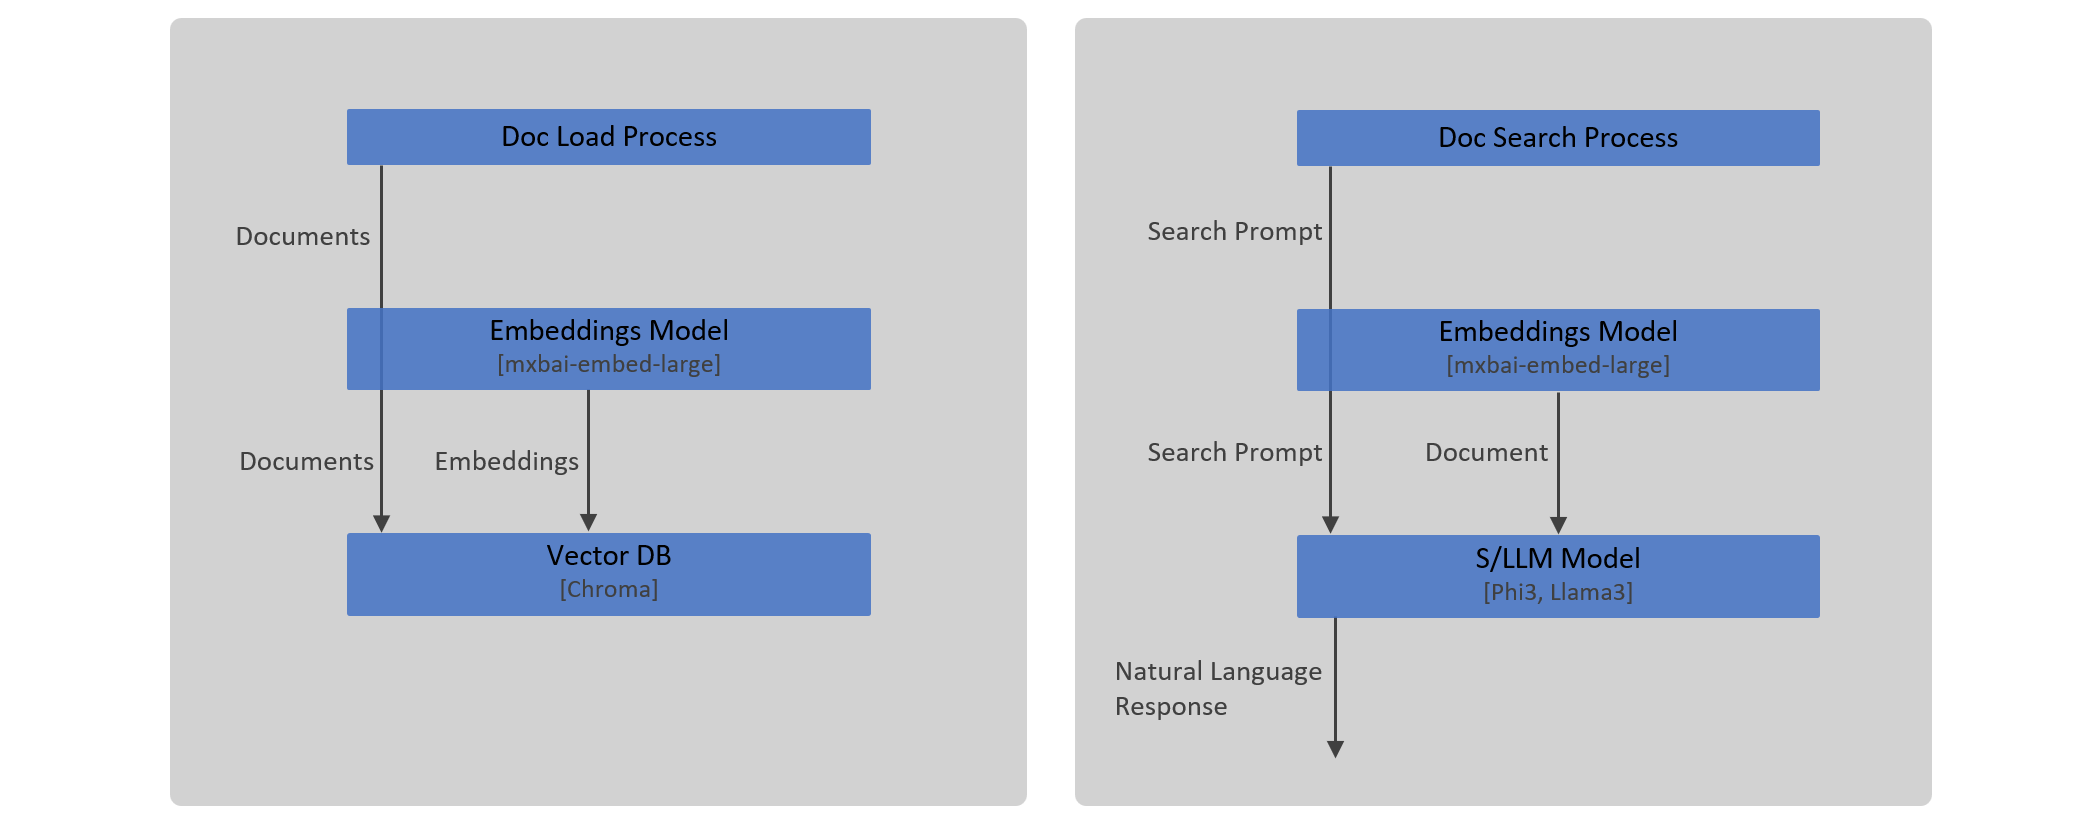
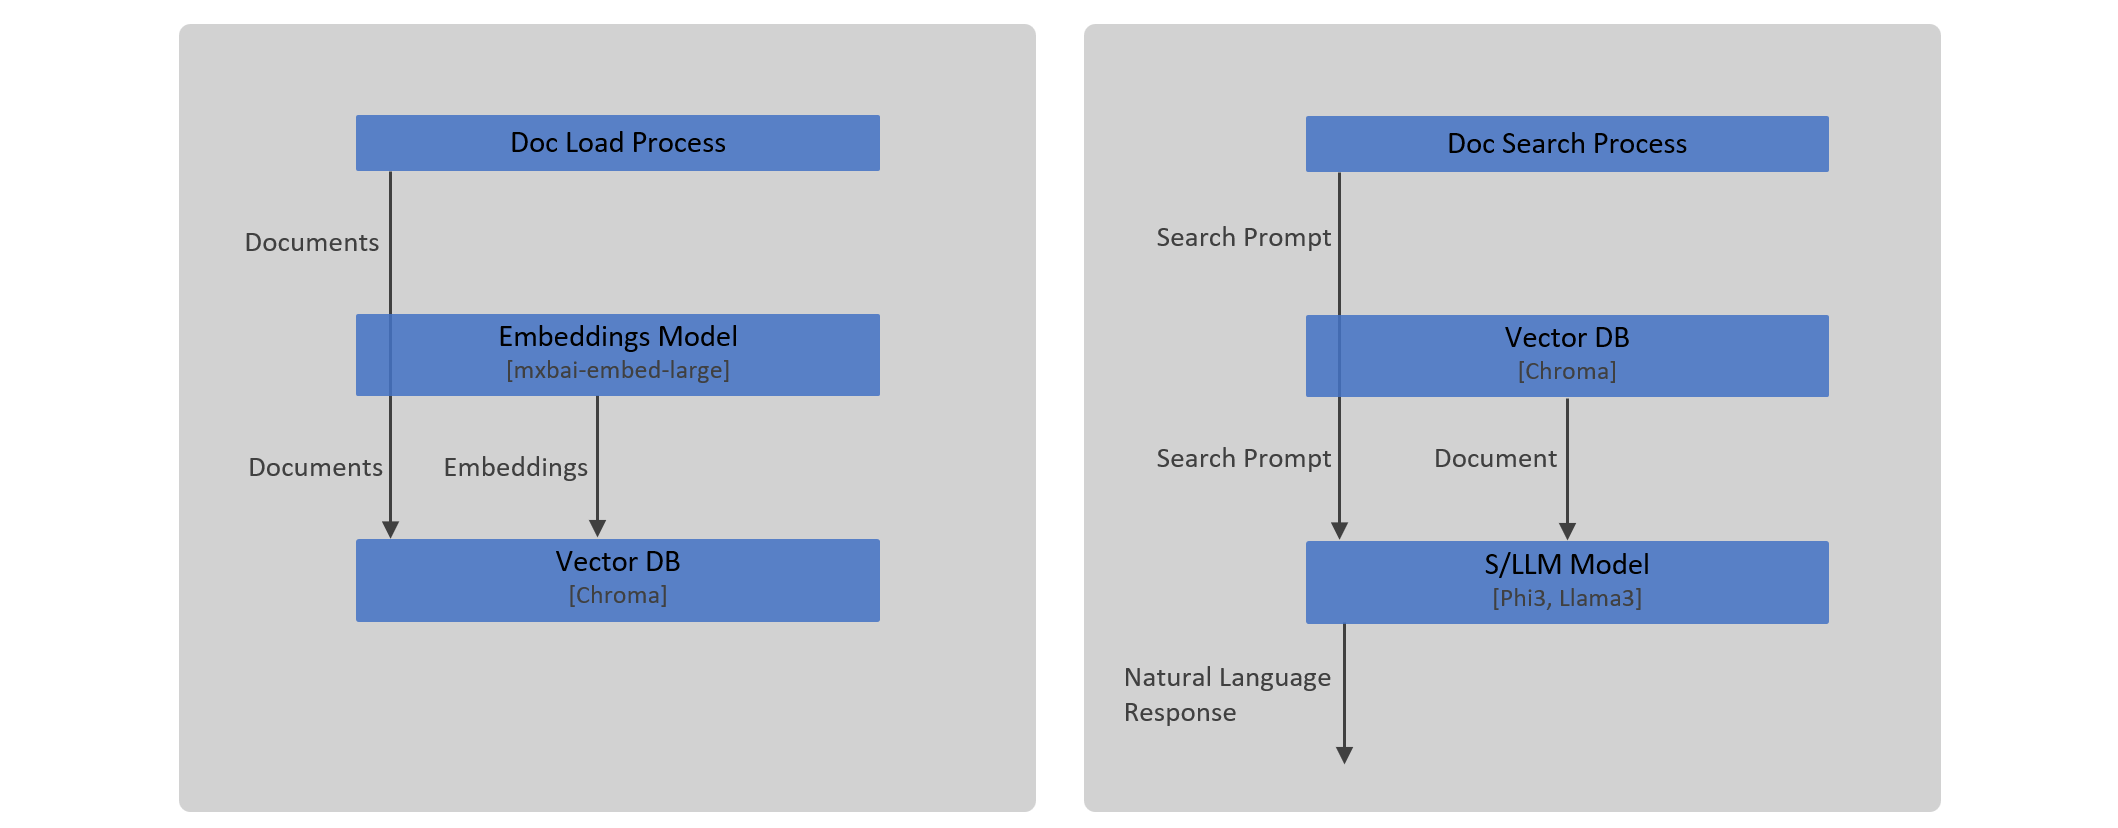
Initial Creation

diff --git a/README.md b/README.md
@@ -1,6 +1,6 @@
 # Documents and Data Search using S/LLMs (Cloud Agnostic)
 
-The repo demonstrates how to create a solution which leverages Gen AI technologies for assisting domain specific users to achieve operational improvements.
+The repo demonstrates how to create a solution which leverages Gen AI technologies for assisting domain specific users to achieve operational improvements. It also highlights some of the ground realities of the challenges and common assumptions e.g. **Large Language Models are not necessarily required for RAG solutions** if they are only used to convert a response to a more natural sounding language.
 
 ## Primary Features
 
@@ -31,13 +31,15 @@ User would like to search existing documents, these documents can be machine man
 
 This section describes the steps which you can use to deploy this solution in your environment to try out.
 
+![K8s Setup](docs/images/rag-k8s-setup.png?raw=true "K8s Setup")
+
 ### Codespace Deployment
 
 [Add steps to deploy the solution in Codespace]
 
 ## Configuration and Extensibility
 
-This repo makes use of [Ollama] (https://github.com/ollama/ollama) to host both embeddings models and S/LLM models. Ollama provides various options regarding hosting and management of models, we surface some of those options in this solution, they are listed here:
+This repo makes use of [Ollama](https://github.com/ollama/ollama) to host both embeddings models and S/LLM models. Ollama provides various options regarding hosting and management of models, we surface some of those options in this solution, they are listed here:
 
 1. Embeddings Model
 
